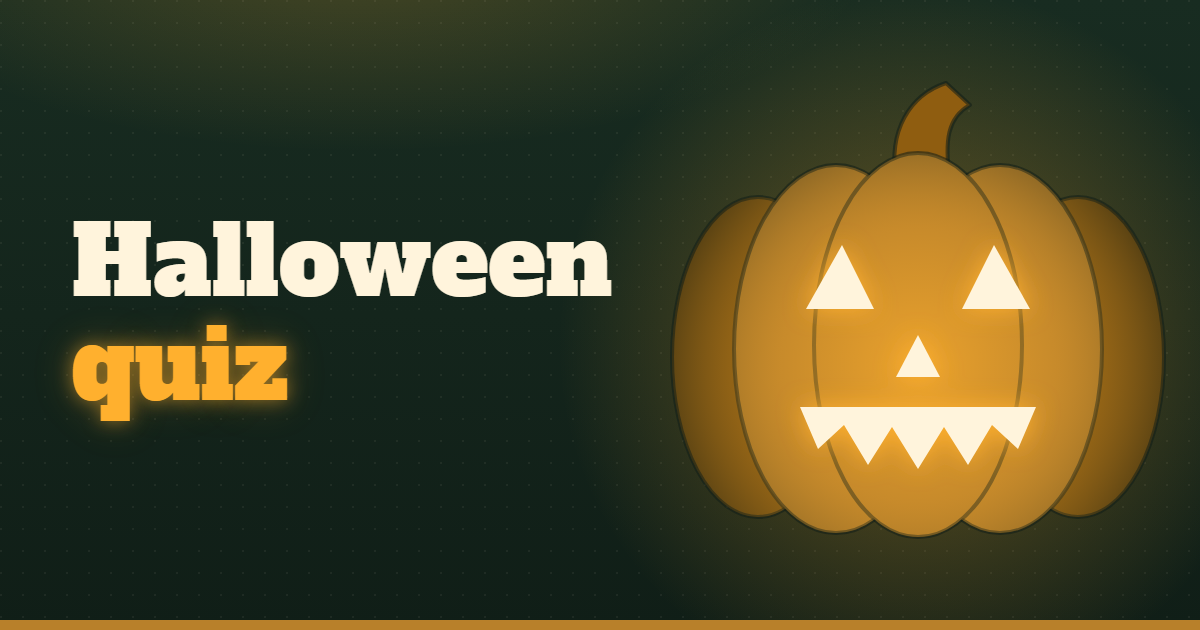
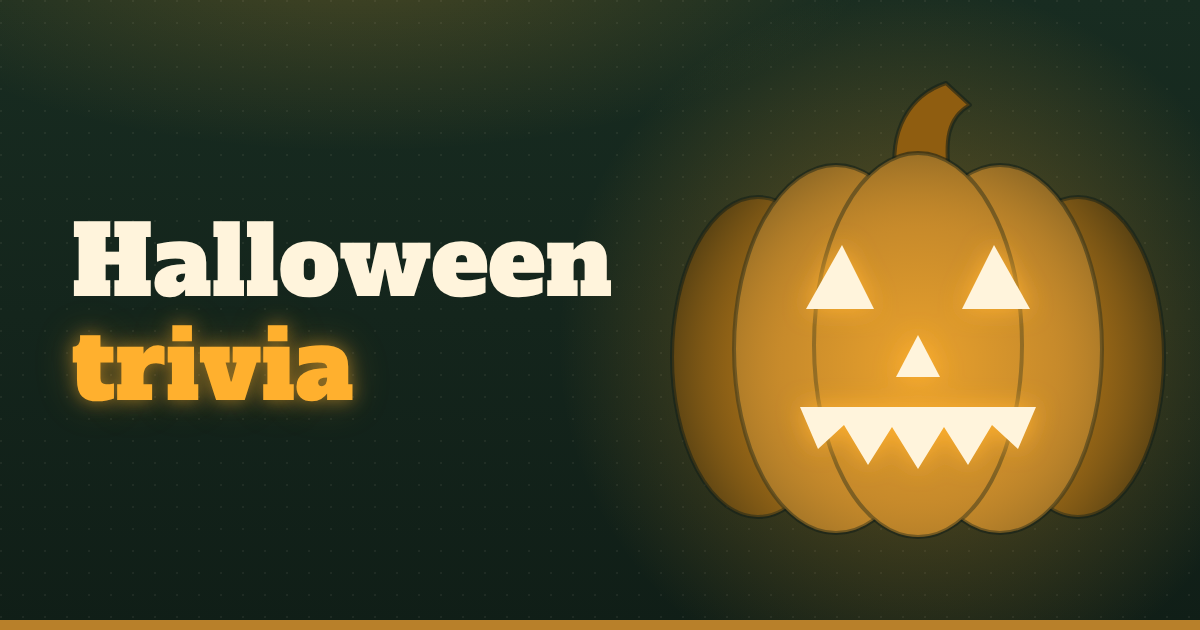
Halloween page: trivia wording
Title, description, H1, intro, picture alt, CTA allowance line and
button switch from "quiz" to "trivia", as marketing wrote and Paul
approved on 29 Oct. The allowance line is built from FREE_PACK_ALLOWANCE,
the same way the Thanksgiving page does it. The picture now says
"Halloween trivia" (scene words only; drawing unchanged), regenerated
with npm run og:quiz -- halloween.

URL, questions, round titles, CTA heading and first two CTA paragraphs
are unchanged. Bonfire Night is unchanged.

Claude-Session: https://claude.ai/code/session_01Rj3asz1MVEByNU2XZpE2Tf

Changed region(s): [[0.0617, 0.5127, 0.3083, 0.6937], [0.4317, 0.4222, 0.4625, 0.4524], [0.3083, 0.3921, 0.3392, 0.4222]]

diff --git a/e2e/quiz-page.spec.ts b/e2e/quiz-page.spec.ts
@@ -14,13 +14,16 @@ import { test, expect, type Page } from "@playwright/test";
 const SITE = "https://triviafoundry.com";
 const PATH = "/quizzes/halloween";
 
-const TITLE = "Halloween quiz questions and answers: 20 free questions for your quiz night";
+const TITLE = "Halloween trivia questions and answers: 20 free questions for your trivia night";
 const DESCRIPTION =
-  "Two ready-made Halloween quiz rounds with answers: traditions and history, then horror films and books. Free to use. Or make your own Halloween quiz in minutes.";
+  "Two Halloween trivia rounds with answers: traditions and history, then horror films and books. Free to use. Or make your own Halloween trivia night in minutes.";
 const INTRO =
-  "Two rounds of ten for a Halloween quiz night: one on where the traditions came from, one on horror films and books. Answers are under each round. Use them as they are, print them, or swap in your own.";
+  "Two rounds of ten for a Halloween trivia night: one on where the traditions came from, one on horror films and books. Answers are under each round. Use them as they are, print them, or swap in your own.";
 const CTA_HEADING = "Want a Halloween round built for your crowd?";
-const HERO_ALT = "A carved jack-o'-lantern glowing on a dark green background, with the words Halloween quiz.";
+const HERO_ALT = "A carved jack-o'-lantern glowing on a dark green background, with the words Halloween trivia.";
+const HEADING = "Halloween trivia questions and answers";
+const BUTTON = "Make your own trivia night";
+const ALLOWANCE = "A free account gets 2 packs every 30 days, no card needed.";
 const SHEETS_ALT =
   "Three printed sheets from a TriviaFoundry pack: the presenter script, the host answer key and a team answer sheet.";
 const ROUND_HEADINGS = [
@@ -88,7 +91,7 @@ test.describe("/quizzes/halloween, signed out", () => {
   test("shows the heading, two rounds, 20 questions and 20 answers", async ({ page }) => {
     await page.goto(PATH);
 
-    await expect(page.getByRole("heading", { level: 1, name: "Halloween quiz questions and answers" })).toBeVisible();
+    await expect(page.getByRole("heading", { level: 1, name: HEADING })).toBeVisible();
     await expect(page.getByText(INTRO)).toBeVisible();
     for (const heading of ROUND_HEADINGS) {
       await expect(page.getByRole("heading", { level: 2, name: heading })).toBeVisible();
@@ -121,7 +124,8 @@ test.describe("/quizzes/halloween, signed out", () => {
     await page.goto(PATH);
     const cta = page.getByRole("region", { name: CTA_HEADING });
     await expect(cta).toBeVisible();
-    await expect(cta.getByRole("link", { name: "Make your own quiz" })).toHaveAttribute("href", "/create");
+    await expect(cta.getByText(ALLOWANCE)).toBeVisible();
+    await expect(cta.getByRole("link", { name: BUTTON })).toHaveAttribute("href", "/create");
 
     await expect(page.getByRole("img", { name: HERO_ALT })).toBeVisible();
     await expect(cta.getByRole("img", { name: SHEETS_ALT })).toBeVisible();
@@ -185,11 +189,11 @@ test.describe("/quizzes/halloween, printed", () => {
     await expect(page.getByRole("img", { name: SHEETS_ALT })).toBeHidden();
     await expect(page.getByText(INTRO)).toBeHidden();
     await expect(page.getByRole("heading", { name: CTA_HEADING })).toBeHidden();
-    await expect(page.getByRole("link", { name: "Make your own quiz" })).toBeHidden();
+    await expect(page.getByRole("link", { name: BUTTON })).toBeHidden();
     await expect(page.getByRole("button", { name: "Print these rounds" })).toBeHidden();
 
     // The quiz.
-    await expect(page.getByRole("heading", { level: 1, name: "Halloween quiz questions and answers" })).toBeVisible();
+    await expect(page.getByRole("heading", { level: 1, name: HEADING })).toBeVisible();
     for (const heading of ROUND_HEADINGS) {
       await expect(page.getByRole("heading", { level: 2, name: heading })).toBeVisible();
     }
@@ -220,7 +224,7 @@ test.describe("/quizzes/halloween, printed", () => {
     const lines = printed.split("\n").map((l) => l.trim()).filter(Boolean);
     // H1, two round headings, two "Answers" labels, 20 questions, 20 answers.
     expect(lines).toHaveLength(1 + 2 + 2 + 20 + 20);
-    for (const absent of ["Make your own quiz", "Print these rounds", "How it works", "Yanshuf Studio", "Two rounds of ten"]) {
+    for (const absent of [BUTTON, "Print these rounds", "How it works", "Yanshuf Studio", "Two rounds of ten"]) {
       expect(printed).not.toContain(absent);
     }
   });

diff --git a/src/content/quizzes/halloween.ts b/src/content/quizzes/halloween.ts
@@ -1,18 +1,20 @@
+import { countOf } from "@/lib/plural";
+import { FREE_PACK_ALLOWANCE } from "@/lib/pricing";
 import type { Quiz } from "./types";
 
 export const halloween: Quiz = {
   slug: "halloween",
-  title: "Halloween quiz questions and answers: 20 free questions for your quiz night",
+  title: "Halloween trivia questions and answers: 20 free questions for your trivia night",
   description:
-    "Two ready-made Halloween quiz rounds with answers: traditions and history, then horror films and books. Free to use. Or make your own Halloween quiz in minutes.",
-  heading: "Halloween quiz questions and answers",
+    "Two Halloween trivia rounds with answers: traditions and history, then horror films and books. Free to use. Or make your own Halloween trivia night in minutes.",
+  heading: "Halloween trivia questions and answers",
   intro:
-    "Two rounds of ten for a Halloween quiz night: one on where the traditions came from, one on horror films and books. Answers are under each round. Use them as they are, print them, or swap in your own.",
+    "Two rounds of ten for a Halloween trivia night: one on where the traditions came from, one on horror films and books. Answers are under each round. Use them as they are, print them, or swap in your own.",
   image: {
     url: "/quizzes/halloween.png",
     width: 1200,
     height: 630,
-    alt: "A carved jack-o'-lantern glowing on a dark green background, with the words Halloween quiz.",
+    alt: "A carved jack-o'-lantern glowing on a dark green background, with the words Halloween trivia.",
   },
   rounds: [
     {
@@ -122,8 +124,9 @@ export const halloween: Quiz = {
     paragraphs: [
       "Tell TriviaFoundry who's playing and what they like, and it writes the rounds in minutes: a scary-films round for film buffs, Halloween for kids, or a costume round for your regulars. You get the full pack, a presenter script and answer sheets to print. On the night, teams answer on their phones (no app to download), tables that prefer paper play in the same game, and you run it round by round with the scores up on the TV.",
       "AI can slip on a fact. Every question is yours to edit, so give the pack a read before the night.",
-      "A free account gets 2 quiz packs every 30 days, no card needed.",
+      // Follows /pricing.
+      `A free account gets ${countOf(FREE_PACK_ALLOWANCE, "pack")} every 30 days, no card needed.`,
     ],
-    button: "Make your own quiz",
+    button: "Make your own trivia night",
   },
 };

diff --git a/src/content/quizzes/quizzes.test.ts b/src/content/quizzes/quizzes.test.ts
@@ -82,7 +82,22 @@ describe("the Halloween quiz", () => {
   });
 
   it("carries the exact title the page is published under", () => {
-    expect(halloween!.title).toBe("Halloween quiz questions and answers: 20 free questions for your quiz night");
+    expect(halloween!.title).toBe("Halloween trivia questions and answers: 20 free questions for your trivia night");
+  });
+
+  it("says trivia, not quiz, in the copy marketing switched", () => {
+    expect(halloween!.description).toBe(
+      "Two Halloween trivia rounds with answers: traditions and history, then horror films and books. Free to use. Or make your own Halloween trivia night in minutes.",
+    );
+    expect(halloween!.heading).toBe("Halloween trivia questions and answers");
+    expect(halloween!.intro).toBe(
+      "Two rounds of ten for a Halloween trivia night: one on where the traditions came from, one on horror films and books. Answers are under each round. Use them as they are, print them, or swap in your own.",
+    );
+    expect(halloween!.image.alt).toBe(
+      "A carved jack-o'-lantern glowing on a dark green background, with the words Halloween trivia.",
+    );
+    expect(halloween!.cta.paragraphs[2]).toBe("A free account gets 2 packs every 30 days, no card needed.");
+    expect(halloween!.cta.button).toBe("Make your own trivia night");
   });
 
   it("is shared with its own 1200x630 picture", () => {

diff --git a/e2e/quizzes-hub.spec.ts b/e2e/quizzes-hub.spec.ts
@@ -27,10 +27,10 @@ const FOOTER_LABEL = "Free quiz questions";
 /** In the order the page lists them. */
 const ENTRIES = [
   {
-    heading: "Halloween quiz questions and answers",
+    heading: "Halloween trivia questions and answers",
     href: "/quizzes/halloween",
     intro:
-      "Two rounds of ten for a Halloween quiz night: one on where the traditions came from, one on horror films and books. Answers are under each round. Use them as they are, print them, or swap in your own.",
+      "Two rounds of ten for a Halloween trivia night: one on where the traditions came from, one on horror films and books. Answers are under each round. Use them as they are, print them, or swap in your own.",
   },
   {
     heading: "Bonfire Night quiz questions and answers",

diff --git a/scripts/render-quiz-og.ts b/scripts/render-quiz-og.ts
@@ -151,7 +151,7 @@ type Scene = {
 };
 
 const SCENES: Record<string, Scene> = {
-  halloween: { lines: ["Halloween", "quiz"], art: () => jackOLantern(918, 345) },
+  halloween: { lines: ["Halloween", "trivia"], art: () => jackOLantern(918, 345) },
   "bonfire-night": { lines: ["Bonfire Night", "quiz"], art: () => bonfire(990, 520) },
 };
 
